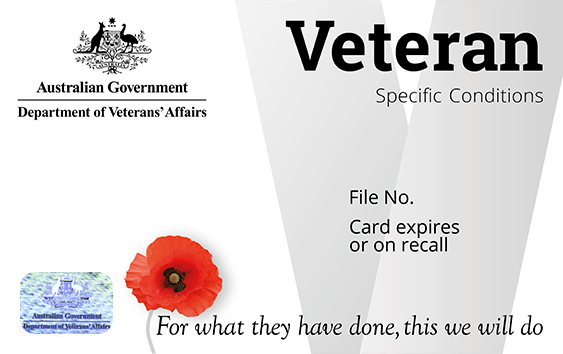
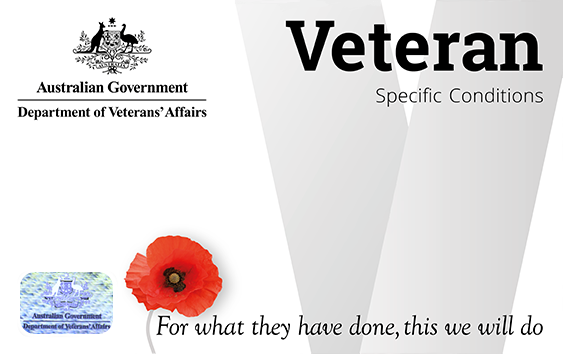
done?!

Changed region(s): [[0.6039, 0.6215, 0.8153, 0.7147], [0.6039, 0.5282, 0.7247, 0.5904]]

diff --git a/src/sass/myservice-healthcards.scss b/src/sass/myservice-healthcards.scss
@@ -7,7 +7,6 @@
   flex-direction: column;
   width: 95%;
   margin: 0 auto;
-  padding-bottom: 1.5em;
   // border-radius: 1%;
 
   &:not(:last-child) {
@@ -15,11 +14,24 @@
   }
 }
 
+.health-card--container {
+  max-width: 969px;
+}
+
 .health-card__order-replacement {
    margin-top: 1em;
 
    a {
     color: $blue-mid;
+    text-decoration: underline;
+    border-bottom: none;
+    font-size: 1.062em;
+  }
+}
+
+.health-card__detail {
+  .uikit-page-alerts {
+    margin-bottom: 0;
   }
 }
 
@@ -42,14 +54,38 @@
     }
 
     & ~ .health-card__card-number {
-      right: 11%;
-      top: 20.4%;
+      font-size: 2.8vw;
+      right: 10.5%;
+      top: 44.8%;
     }
 
     & ~ .health-card__card-expiry {
-      right: 25.8%;
-      top: 27.6%;
+      right: 24.8%;
+      top: 61.2%;
+      font-size: 2.6vw;
     }
+
+    & ~ .health-card__file-no-text {
+      right: 26.6%;
+      top: 45%;
+      font-size: 2.6vw;
+    }
+    
+    & ~ .health-card__expiry-text {
+      line-height: 0.9;
+      top: 53.5%;
+      right: 20.9%;
+      font-size: 2.55vw;
+    }
+
+    & ~ .health-card__card-name {
+      top: 46%;
+      font-weight: 500;
+      font-size: 3vw;
+      left: 10%;
+    }
+
+    // @media screen and (max-width: 505px)
 
   }
 
@@ -59,14 +95,23 @@
     & ~ p {
       display: none;
     }
+
+    & ~ .health-card__file-no-text, & ~ .health-card__expiry-text {
+      display: none;
+    }
   }
 
   .health-card__image {
     width: 100%;
     height: 100%;
     border-radius: 1.5%;
-    box-shadow: 0 0 10px 2px $gray-mid;
+    box-shadow: 3px 2px 10px 2px #B8B8B8;
   }
+}
+
+.health-card__label--big {
+    font-size: 1.25em;
+    font-weight: 500;
 }
 
 .health-card .health-card__card-toggle {
@@ -96,15 +141,20 @@
   }
 }
 
+.health-card__header-text {
+  margin: 0 0 0.5em;
+  font-weight: bold;
+}
+
 .health-card__label {
   display: inline-block;
   min-width: 150px;
+  font-weight: 600;
 }
 
 .health-card__card-info {
   display: flex;
   width: 100%;
-  margin: -0.5em auto 0 auto;
   z-index: 1;
   flex-direction: column;
 }
@@ -119,20 +169,65 @@
   flex-direction: row;
   justify-content: space-between;
   align-items: flex-start;
-  margin-top: 0.5em;
 
   .health-card__detail {
      margin: 0.5em 0;
   }
 }
 
+.health-card__conditions-list {
+  display: flex;
+  border: 1px solid lightgray;
+  border-radius: 1%;
+  flex-direction: column;
+  background: $white;
+}
+
+.health-card__condition {
+  display: flex;
+  padding: 1.3em 1.5em;
+
+  &:not(:last-child) {
+    border-bottom: 1px solid lightgray;
+  }
+}
+
+.far.health-card__condition-icon {
+  display: flex;
+  align-items: center;
+  padding-right: 1em;
+  
+  &:before {
+    color: #5bb356;
+    font-size: 1.5em;
+  }
+}
+
+.health-card__condition-info {
+
+}
+
+.health-card__condition-name {
+  font-size: 1.14em;
+  font-weight: 700;
+}
+
+.health-card__condition-status {
+  font-weight: 600;
+}
 
 .health-card__extras {
-  margin-top: 0.25em;
   flex-direction: column;
+  width: 100%;
+  border-top: 1px solid lightgray;
+  background: #fdfbfb;
+  padding: 1.1em 2em;
 
   .accordion {
-    margin-top: 0.5em;
+
+    &:not(:first-child) {
+      margin-top: 0.4em;
+    }
 
     .accordion-button {
       color: $blue-mid;
@@ -140,7 +235,11 @@
    
     .accordion-content {
       & > :first-child {
-        margin-top: 1em;
+        margin-top: 0;
+      }
+
+      .accordion-content__sub-heading {
+        margin-top: 0.2em;
       }
     }
   }
@@ -159,10 +258,6 @@ hr.non-breaking-hr {
     width: 98%;
   }
 
-  .health-card > div {
-    width: 95%;
-  }
-
   .health-card__card-info {
     flex-direction: row;
     justify-content: space-around;
@@ -172,7 +267,6 @@ hr.non-breaking-hr {
     height: auto;
     width: 352px;
     order: 2;
-    margin: 2.5em 0 0 0;
 
     .health-card__image--veteran {
       & ~ .card-text {
@@ -185,12 +279,32 @@ hr.non-breaking-hr {
 
       & ~ .health-card__card-number {
         right: 19px;
-        top: 112px;
+        top: 109px;
       }
 
       & ~ .health-card__card-expiry {
         right: 83px;
         top: 158px;
+      }
+
+      & ~ .health-card__file-no-text {
+        right: 93px;
+        top: 110px;
+        font-size: 0.85em;
+      }
+      
+      & ~ .health-card__expiry-text {
+        line-height: 0.9;
+        top: 133px;
+        right: 63px;
+        font-size: 0.85em;
+      }
+
+      & ~ .health-card__card-name {
+        top: 100px;
+        right: 254px;
+        font-weight: 500;
+        font-size: 1em;
       }
     }
     
@@ -202,19 +316,16 @@ hr.non-breaking-hr {
 
   }
 
-  .health-card__inner-card-info {
-    margin-top: 2em;
-  }
-
   .health-card__card-toggle {
     display: none;
   }
 
-  @media screen and (min-width: $AU-media-md) {
-    .health-card__extras > div {
-      width: 60%;
-    }
-  }
+  // @media screen and (min-width: $AU-media-md) {
+  //   .health-card__extras > div {
+  //     width: 60%;
+  //   }
+  // }
+
 
   .health-card__inner-card-info, .health-card__extras {
     display: flex !important;
